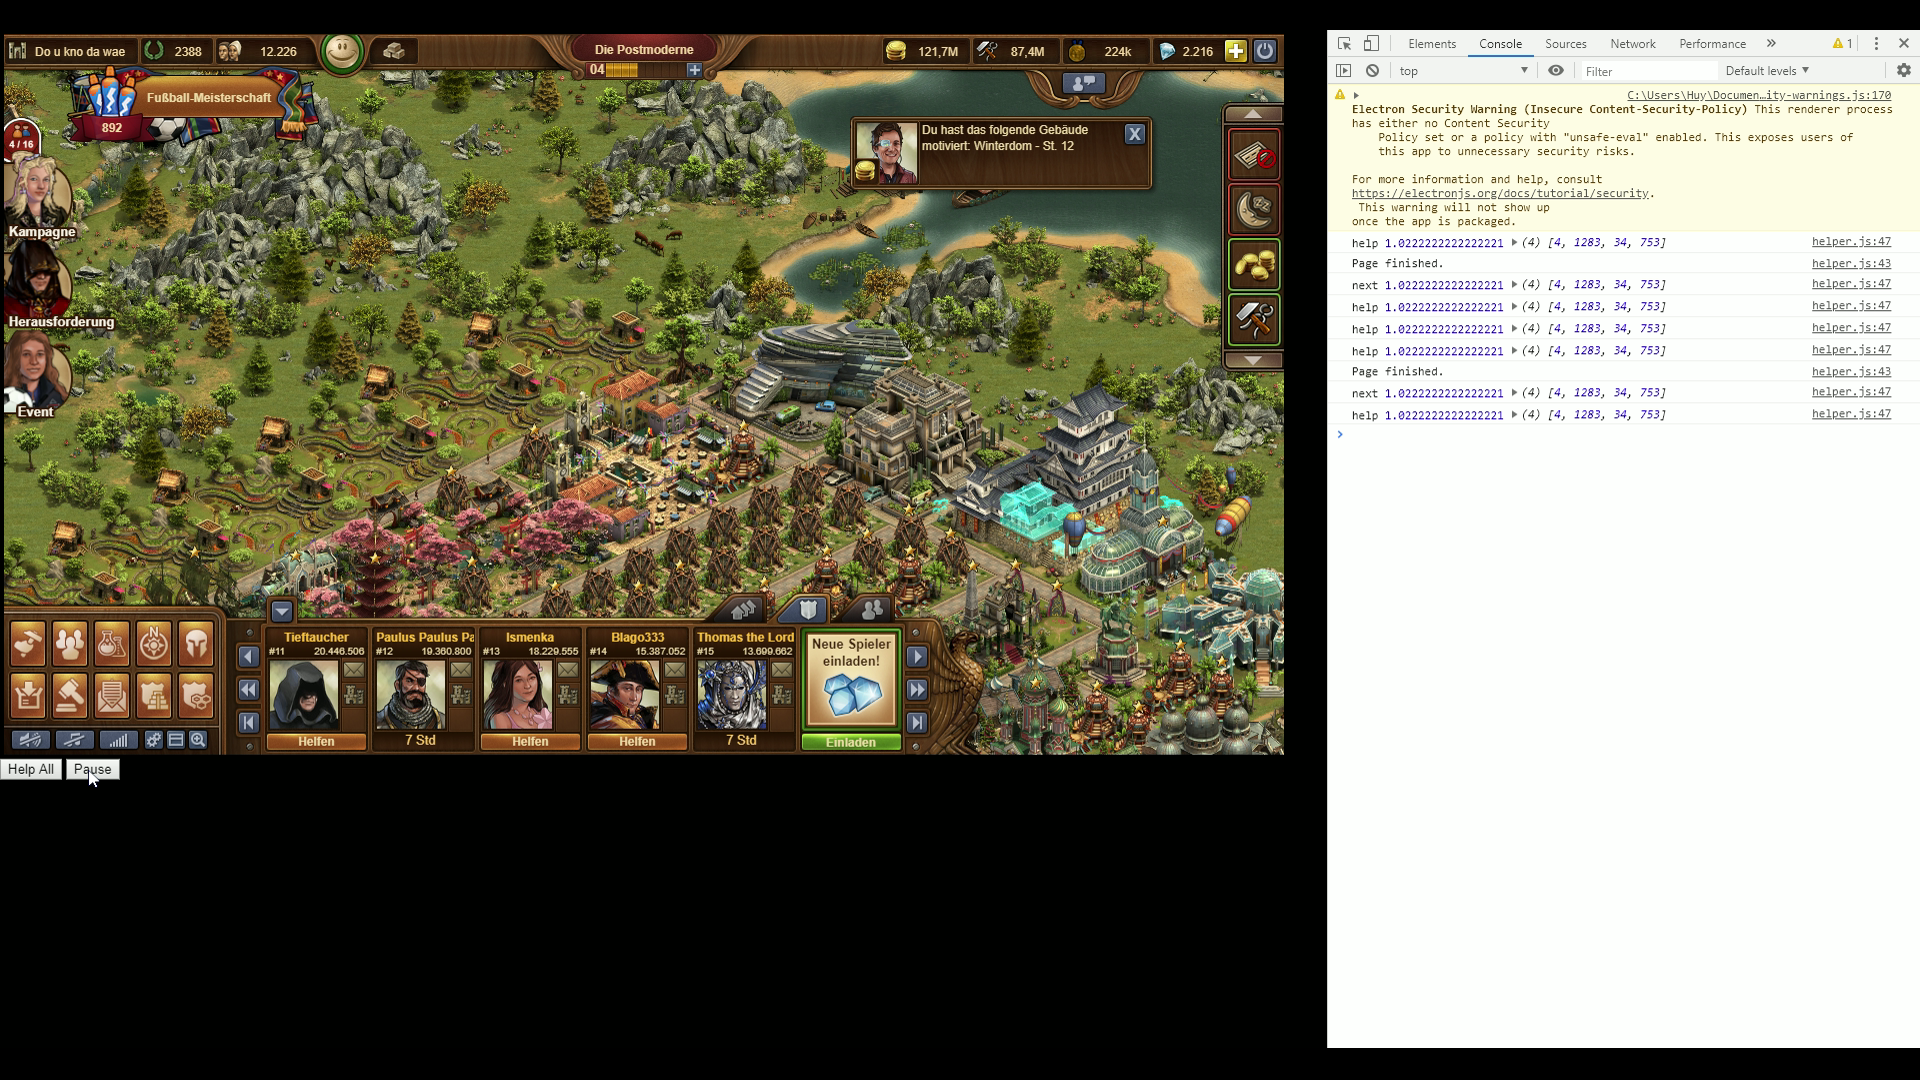
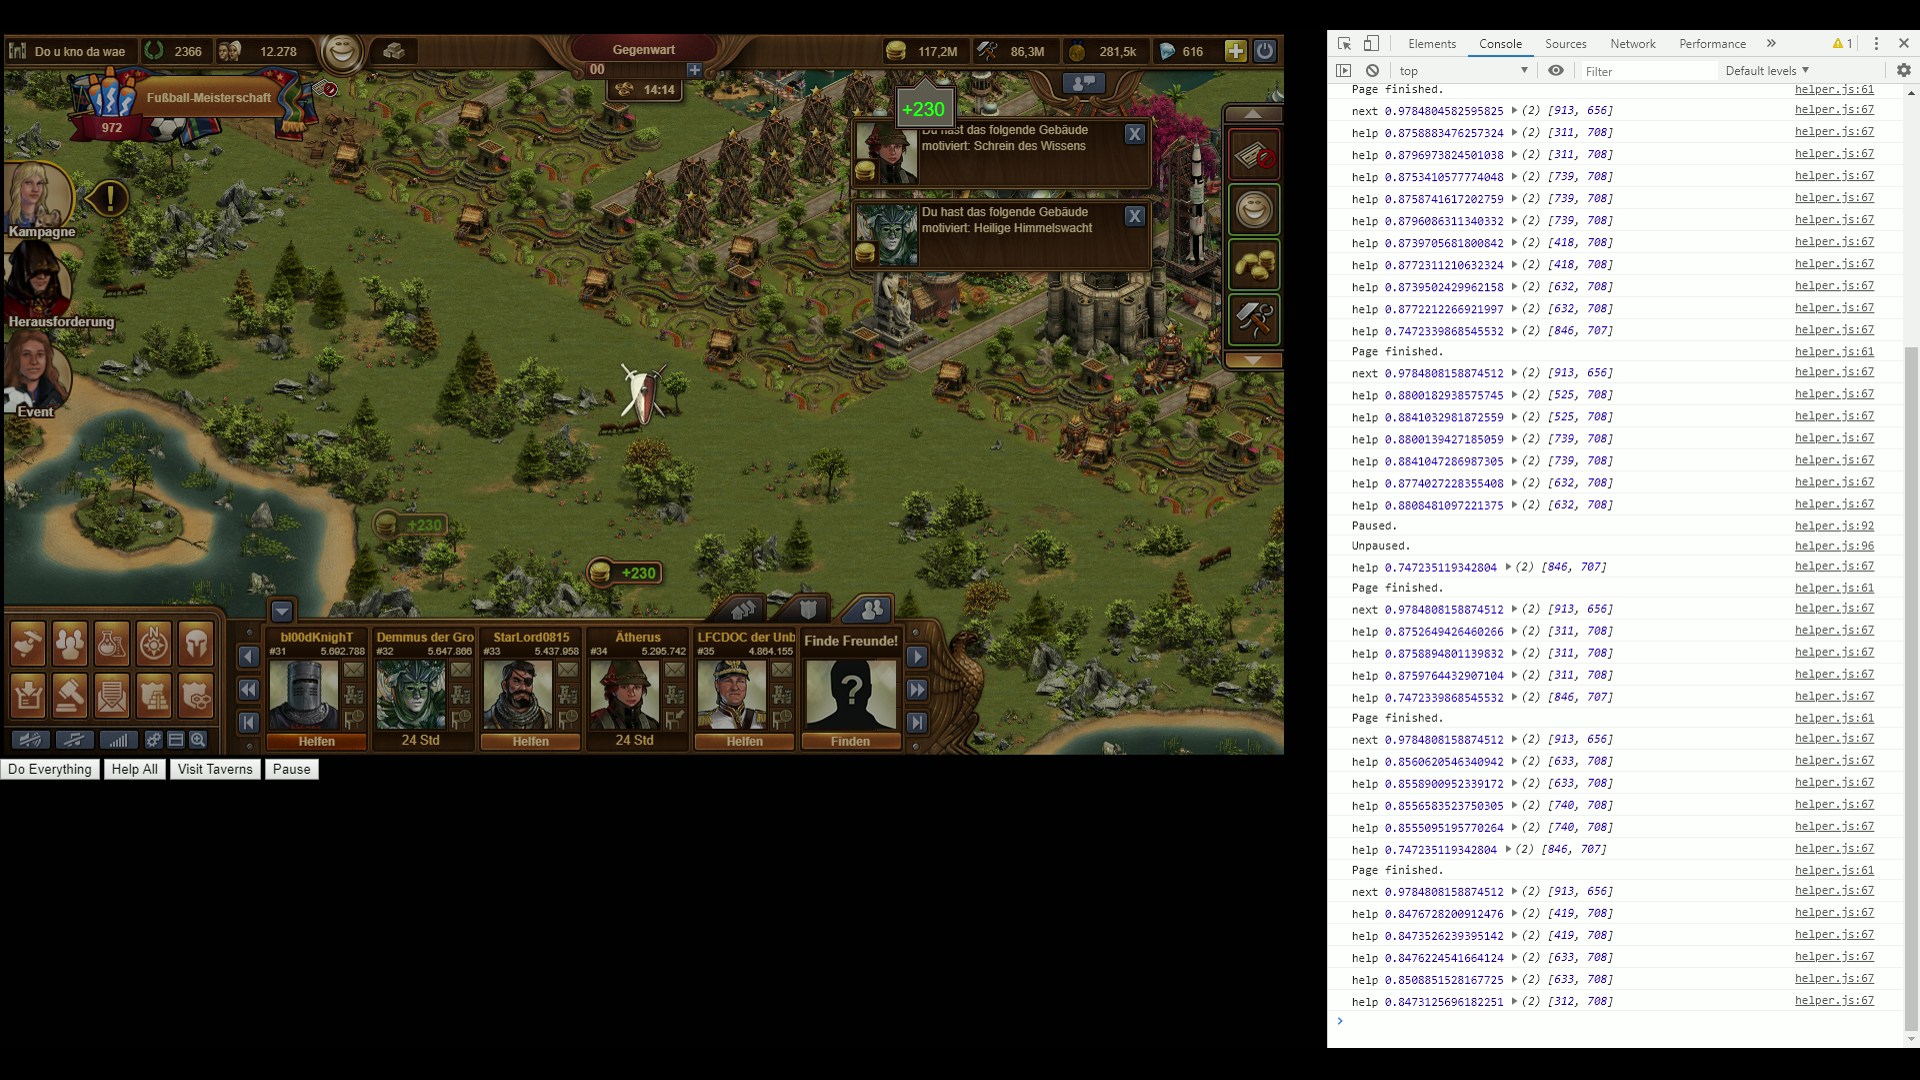
implemented visit tavern function and refactored some code

diff --git a/electron/helper.js b/electron/helper.js
@@ -4,76 +4,96 @@ const spawn_python = require("./functions/spawn_python");
 const mouse_press = require("./functions/mouse_press");
 const get_screenshot = require("./functions/screenshot");
 const sleep = require("./functions/sleep");
-const initialize = require("./initialize")
+const initializer = require("./initialize")
 
+async function initialize() {
+  let webview_data = await initializer();
+  if (webview_data.message) {
+    console.log(webview_data.message);
+    return false;
+  }
+  return webview_data
+}
 
 async function help_all() {
-
   let webview_data = await initialize();
-  let { roi_region, message } = webview_data
-  if (message) {
-    console.log(message);
-    return;
-  }
+  await click_all_images('friends_tab', 'help', webview_data)
+  await click_all_images('guild_tab', 'help', webview_data)
+  await click_all_images('neighbors_tab', 'help', webview_data)
+}
 
-  if (roi_region) {
-    let last_page_prob = 0; 
-    while (last_page_prob < 0.9){
-      await help_page(webview_data);
-      last_page_prob = await check_last_page(webview_data);
+async function visit_taverns() {
+  let webview_data = await initialize();
+  await click_all_images('friends_tab', 'tavern', webview_data)
+}
 
-    }
-    console.log('Done');
-    
-  }
+async function do_all() {
+  visit_taverns();
+  help_all()
 }
 
 
-async function help_page({ scale, webview_region }) {
+async function click_all_images(tab, str_template, webview_data) {
+  
+  if (webview_data) {
+    await click_img(tab, webview_data)
+    await click_img('first', webview_data);
+    let last_page_prob = 0;
+    while (last_page_prob < 0.9) {
+      await click_images_in_page(str_template, webview_data);
+      last_page_prob = await check_last_page(webview_data);
+
+      await should_pause();
+    }
+    console.log('Done.');
+
+  }
+}
+
+async function click_images_in_page(str_template, webview_data) {
 
   let help_prob = 1;
   while (help_prob > 0.8) {
-    help_prob = await click_img("help", scale, webview_region);
+    help_prob = await click_img(str_template, webview_data);
 
-    if (pause) {
-      await pauser();
-    }
-
+    await should_pause();
   }
   console.log('Page finished.');
 }
 
-async function click_img(str_template, scale, webview_region) {
-  console.log(str_template, scale, webview_region)
+async function click_img(str_template, { scale, webview_region }) {
   await get_screenshot("screen.png");
   let { prob, coord } = await spawn_python("find_template", str_template, scale, webview_region);
+  console.log(str_template, prob, coord)
   if (prob > 0.8) {
     await mouse_press(coord);
   }
   return prob;
 }
 
-async function check_last_page({ scale, webview_region, roi_region }) {
+async function check_last_page(webview_data) {
   await get_screenshot("last_screen.png");
-  await click_img("next", scale, webview_region);
+  await click_img("next", webview_data);
   await sleep(500);
   await get_screenshot("screen.png");
-  let prob = await spawn_python("check_last_page", webview_region, roi_region);
+  let prob = await spawn_python("check_last_page", webview_data.webview_region, webview_data.roi_region);
   return prob
 }
 
 //#region pause
-let pause = false;
+let paused = false;
 
 function toggle_pause() {
-  pause = !pause;
+  paused = !paused;
 }
 
-async function pauser() {
-  console.log('Paused.');
-  while (pause) {
-    await sleep(500);
+async function should_pause() {
+  if (paused) {
+    console.log('Paused.');
+    while (paused) {
+      await sleep(500);
+    }
+    console.log('Unpaused.');
   }
-  console.log('Unpaused.');
 }
 //#endregion

diff --git a/electron/functions/spawn_python.js b/electron/functions/spawn_python.js
@@ -23,21 +23,33 @@ async function spawn_python(script, ...args) {
   let finished_python = false;
 
   scriptExecution.stdout.on("data", data => {
-    python_return += uint8arrayToString(data);
+    let output = uint8arrayToString(data);
+    let lines = output.split('\n')
+
+    for (let line of lines) {
+      if (line.substring(0, 7) === 'debug: ') { console.log(line) }
+      else if (line.length == 0) {}
+      else { python_return = line }
+    }
     // console.log(python_return);
   });
+
+  // handle error
   scriptExecution.stderr.on("data", data => {
-    python_return += uint8arrayToString(data);
-    console.log(python_return);
+    console.log(uint8arrayToString(data));
+    throw 'Python error';
   });
+
+  //#region wait for finish
   scriptExecution.on("exit", code => {
     // console.log("Python Process quit with code : " + code);
     finished_python = true;
   });
-
   while (!finished_python) {
     await sleep(10);
   }
+  //#endregion
+
   try {
     return JSON.parse(python_return);
   } catch {

diff --git a/electron/index.html b/electron/index.html
@@ -12,7 +12,9 @@
     src="https://de0.forgeofempires.com/page/"
     style="display:inline-flex; width:1280px; height:720px"
     ></webview>
+    <button id="do_all_button">Do Everything</button>
     <button id="help_all_button">Help All</button>
+    <button id="tavern_button">Visit Taverns</button>
     <button id="pause_button">Pause</button>
     
     
@@ -25,7 +27,9 @@
       function do_later() {
         setTimeout(help_one, 2000)
       }
+      document.getElementById("do_all_button").addEventListener("click", do_all);
       document.getElementById("help_all_button").addEventListener("click", help_all);
+      document.getElementById("tavern_button").addEventListener("click", visit_taverns);
       document.getElementById("pause_button").addEventListener("click", toggle_pause);
     </script>
   </body>

diff --git a/electron/rick_roll.html b/electron/rick_roll.html
@@ -1,0 +1,25 @@
+<!DOCTYPE html>
+<html>
+  <head>
+    <meta charset="UTF-8" />
+    <title>FoE Bot</title>
+    <style>
+      webview.border {
+
+      }
+    </style>
+  </head>
+  <body>
+    <button id="button">Press here to learn about the World!</button>
+
+    <script>
+      function show_webview() {
+        let webview = document.createElement("webview");
+        webview.src = 'https://www.youtube.com/watch?v=dQw4w9WgXcQ';
+        webview.style = "display:inline-flex; width:1280px; height:720px";
+        document.body.appendChild(webview);   
+      }
+      document.getElementById("button").addEventListener("click", show_webview);
+    </script>
+  </body>
+</html>

diff --git a/python/tests/test_main.py b/python/tests/test_main.py
@@ -46,7 +46,7 @@ def test_initialization_logged_in_and_ready():
   assert scale['scale'] == pytest.approx(1, rel=1e-1)  # 1.0105263157894737
   print('scale:', scale['scale'])
 
-  roi_region = main.get_roi_region(webview_region, scale['scale'])
+  roi_region = main.get_roi_region(scale['scale'], webview_region)
   assert roi_region == [225, 933, 556, 719]
 
   if show_img:
@@ -65,6 +65,7 @@ def test_initialization_not_logged_in():
 #endregion
 
 #region single functions
+@timer
 def test_find_template():
   webview_region = [4, 1283, 34, 753]
   data = main.find_template('help', 1.0204081632653061, webview_region)
@@ -76,9 +77,9 @@ def test_find_template():
     cv2.circle(webview, coords, 3, (0, 255, 0), 2)
     main.show_img(webview)
 
-def test_check_last_page():
-  prob = main.check_last_page()
-  print(prob)
+# def test_check_last_page():
+#   prob = main.check_last_page()
+#   print(prob)
 #endregion
 
 

diff --git a/python/main.py b/python/main.py
@@ -10,7 +10,7 @@ import numpy as np
 def create_debugger(should_print):
     def debug(*args):
         if should_print:
-            print(*args)
+            print('debug:', *args)
     return debug
 
 
@@ -52,7 +52,7 @@ def find_template(str_template, scale, webview_region):
 
     screen = read_img(region=webview_region)
     template = cv2.imread(f'img/{str_template}.png')
-    # print(type(template))
+
     template_resized = cv2.resize(template, None, fx=scale, fy=scale)
     height, width, _ = template_resized.shape
 
